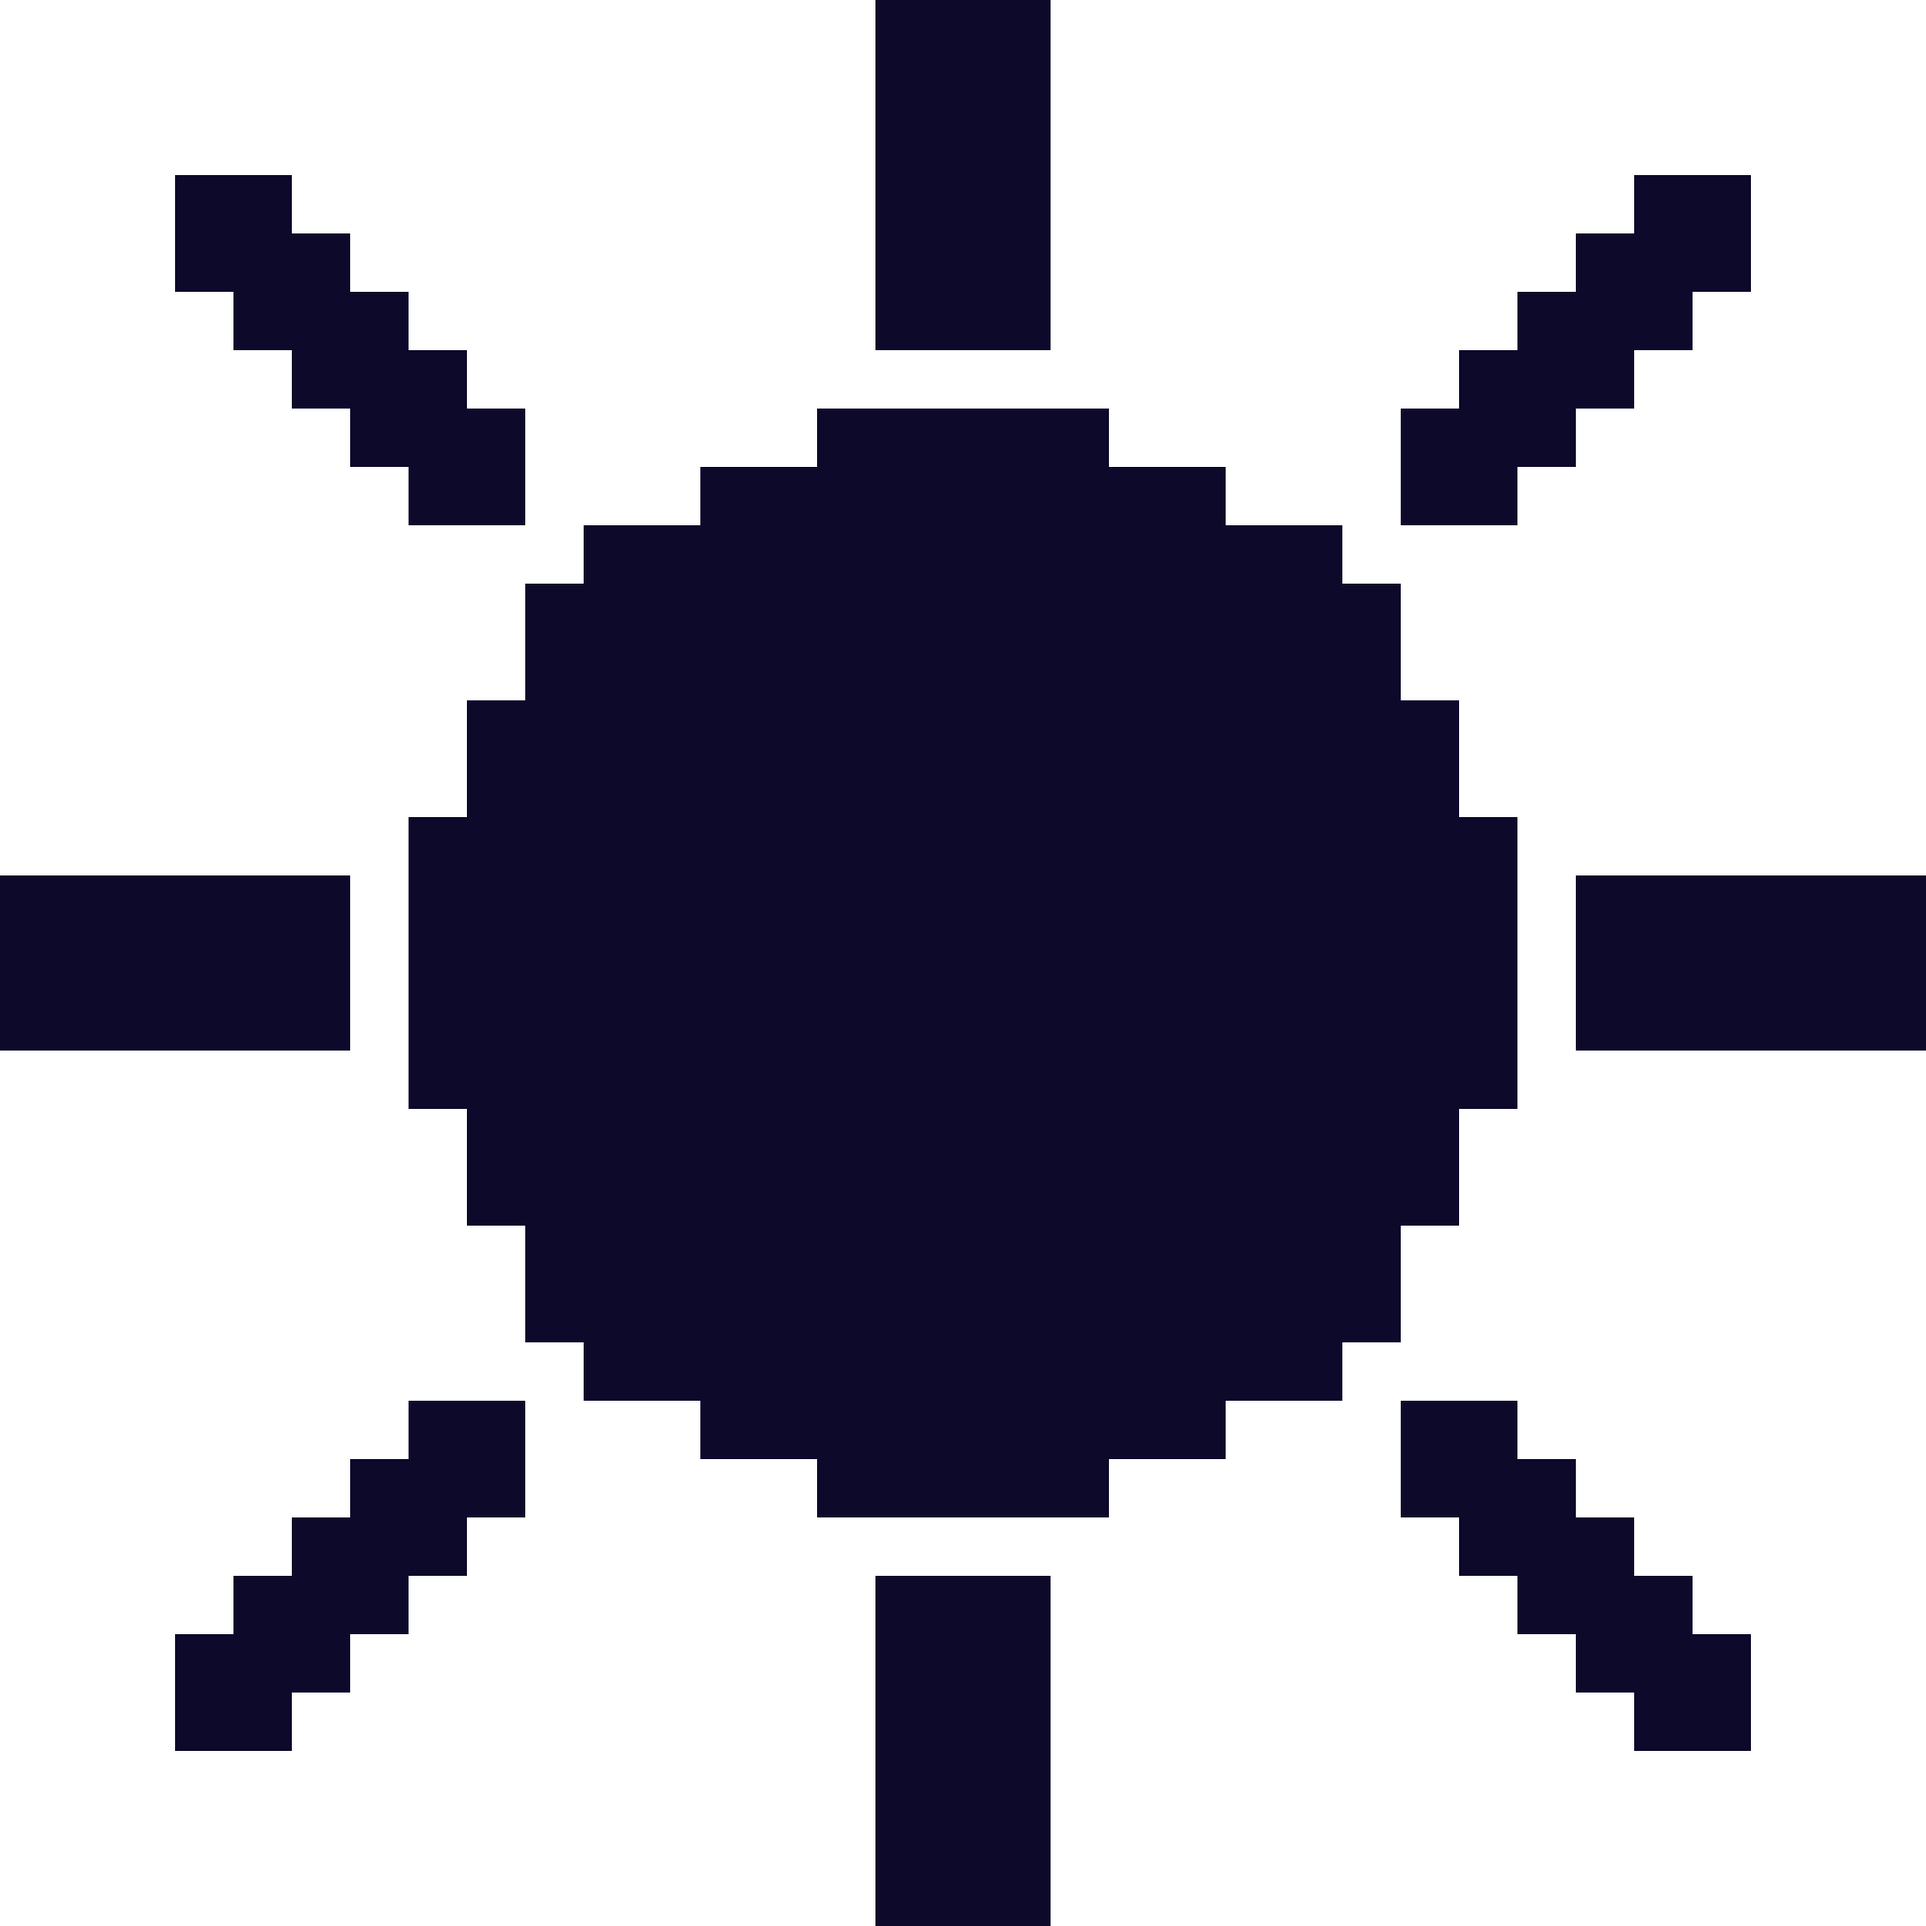
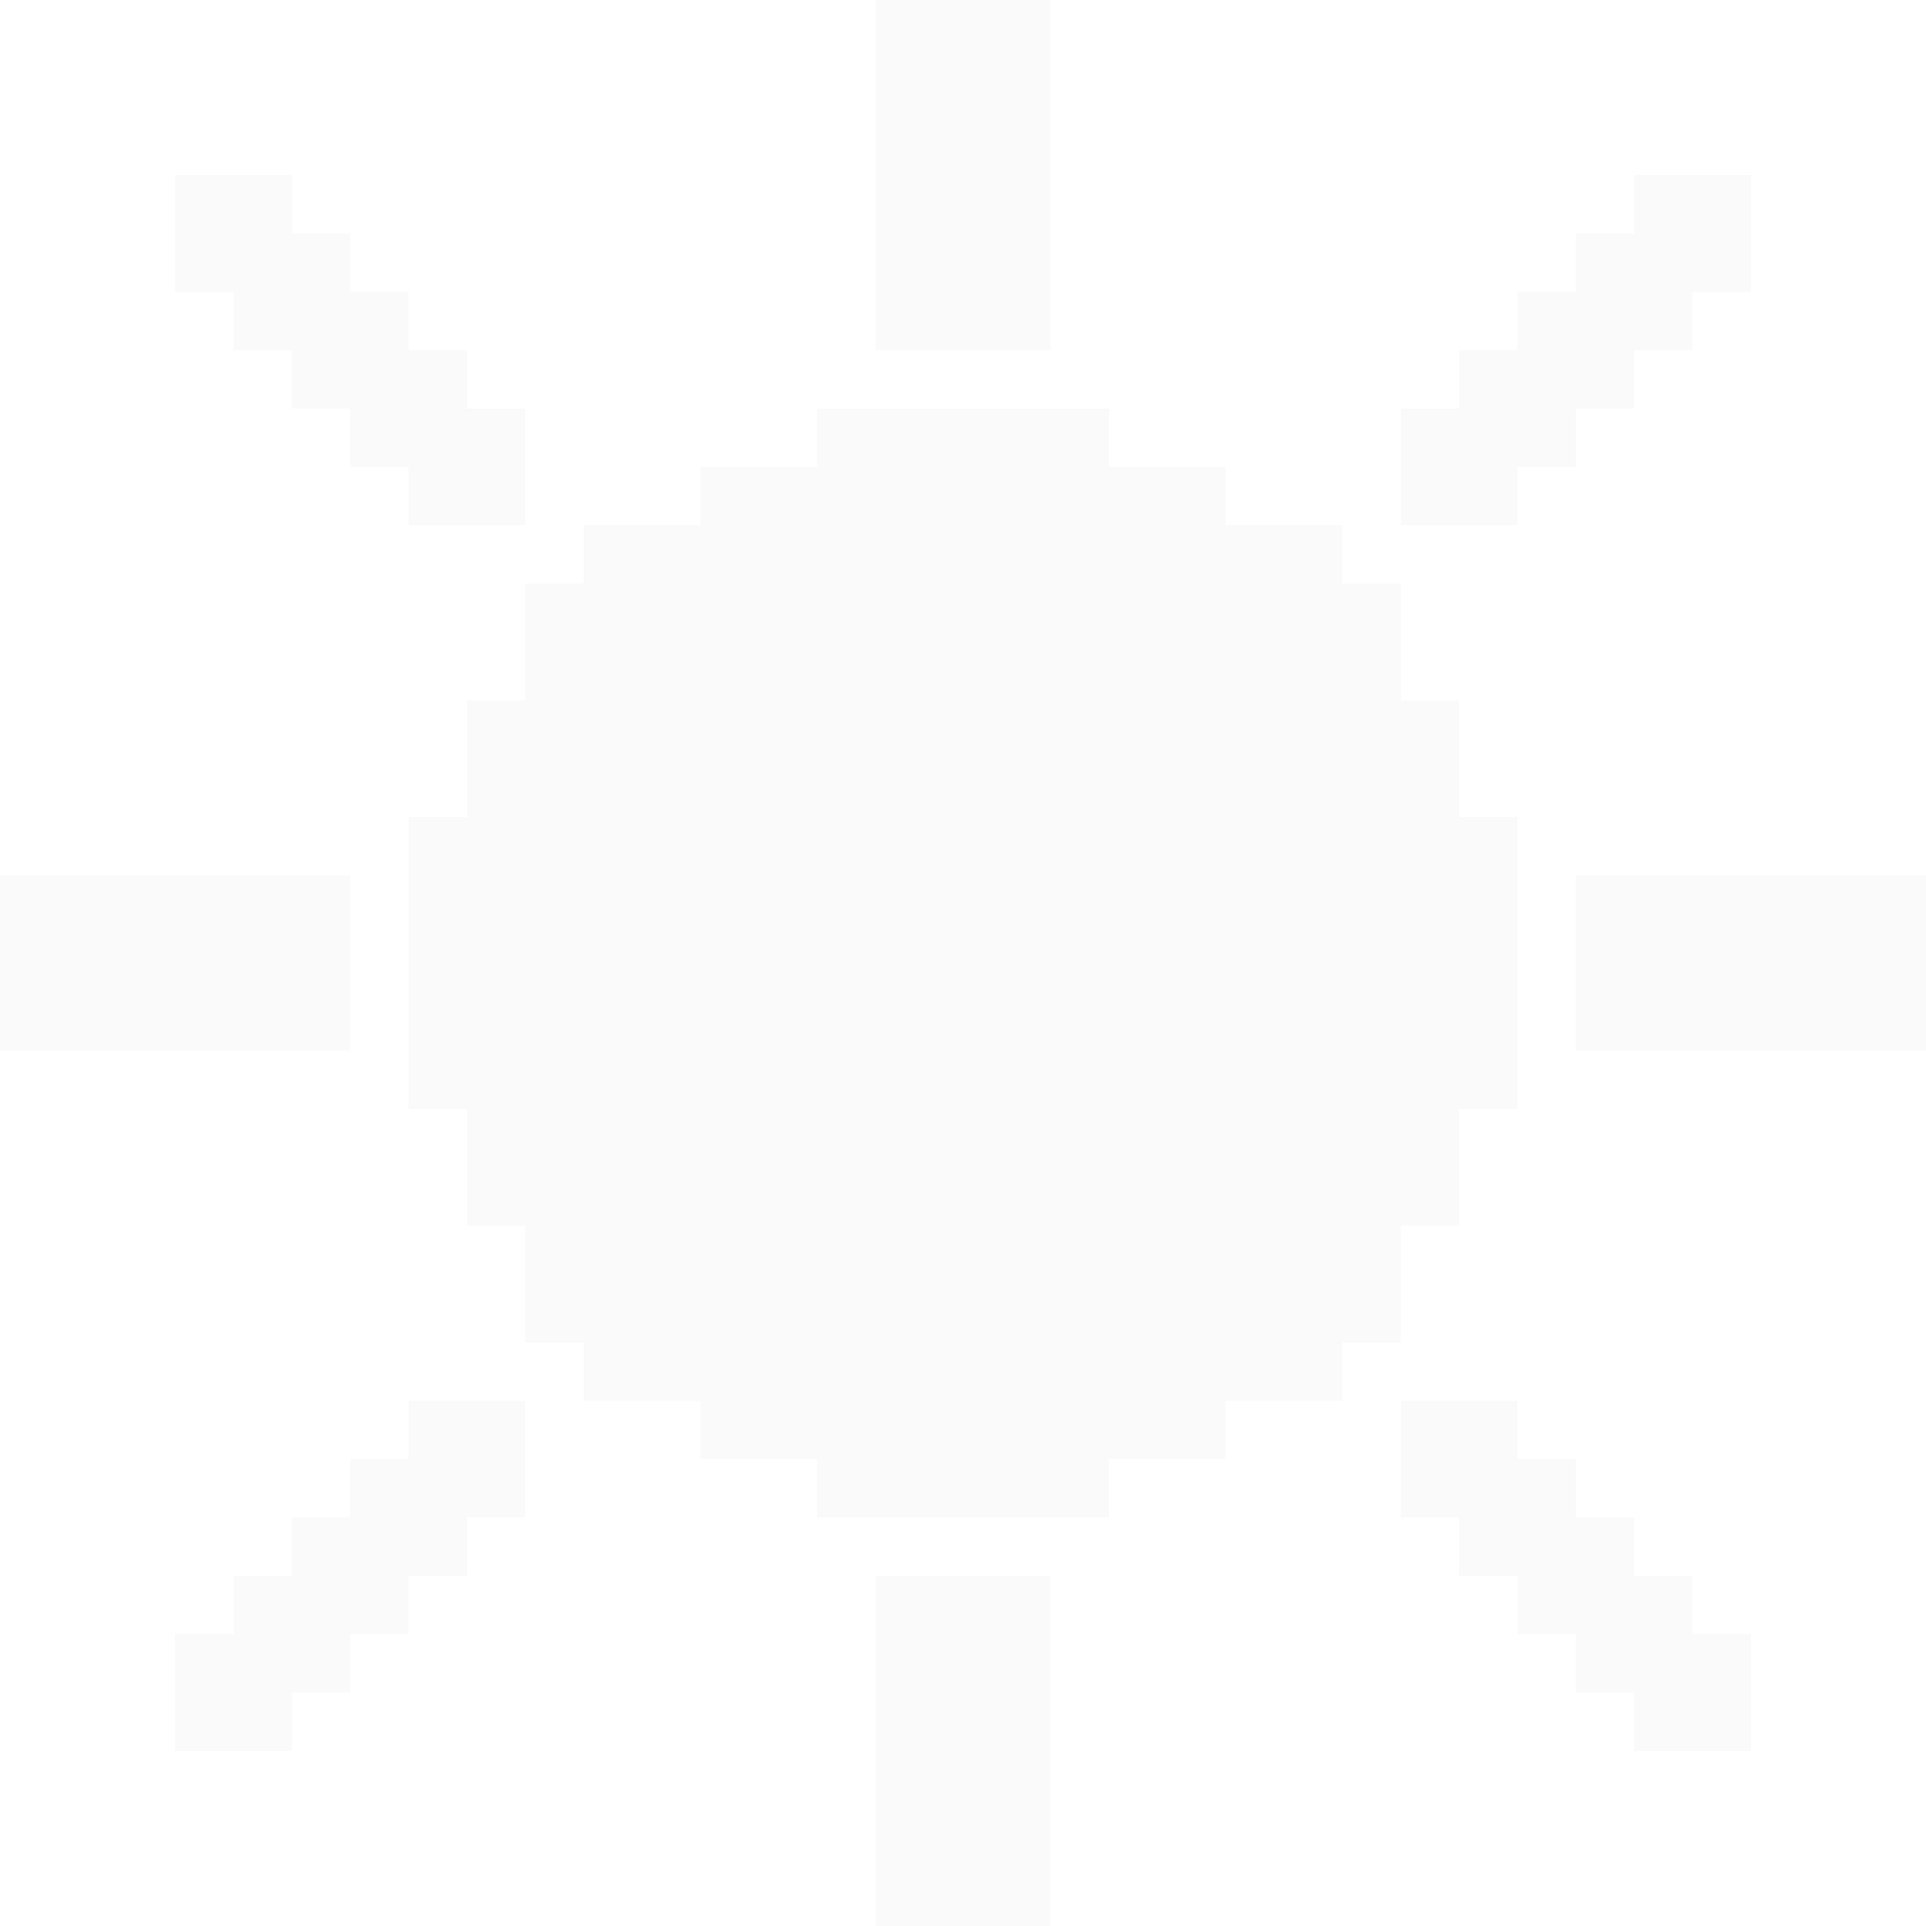
Dark mode

diff --git a/assets/styles/scss/style.scss b/assets/styles/scss/style.scss
@@ -141,6 +141,7 @@ html {
 
                             button {
                                 background-image: url('/res04-projet-soutenance/assets/images/sun.png');
+                                background-color: $background-main-dark;
                             }
                         }
                     }

diff --git a/assets/styles/scss/style.css b/assets/styles/scss/style.css
@@ -978,6 +978,7 @@ html body.dark-mode header nav ul li a {
 }
 html body.dark-mode header nav ul li button {
   background-image: url("/res04-projet-soutenance/assets/images/sun.png");
+  background-color: #0c092b;
 }
 html body.dark-mode main {
   background-color: #0c092b;
